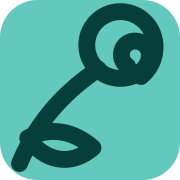
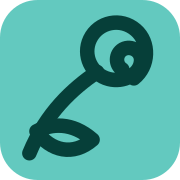
feat: 프로젝트별 파비콘·정적 빌드 반영 및 상품 상세 DB fallback 개선

diff --git a/daisomall/index.html b/daisomall/index.html
@@ -2,10 +2,10 @@
 <html lang="en">
   <head>
     <meta charset="UTF-8" />
-    <link rel="icon" type="image/svg+xml" href="/favicon.svg" />
-    <link rel="icon" type="image/x-icon" href="/favicon.ico" />
-    <link rel="icon" type="image/png" href="/favicon.png" />
-    <link rel="apple-touch-icon" href="/apple-touch-icon.png" />
+    <link rel="icon" type="image/svg+xml" href="/favicon.svg?v=20260723" />
+    <link rel="icon" type="image/x-icon" href="/favicon.ico?v=20260723" />
+    <link rel="icon" type="image/png" href="/favicon.png?v=20260723" />
+    <link rel="apple-touch-icon" href="/apple-touch-icon.png?v=20260723" />
     <meta name="viewport" content="width=device-width, initial-scale=1.0" />
     <title>daisomall</title>
   </head>

diff --git a/airseoul/index.html b/airseoul/index.html
@@ -2,10 +2,10 @@
 <html lang="en">
   <head>
     <meta charset="UTF-8" />
-    <link rel="icon" type="image/svg+xml" href="/favicon.svg" />
-    <link rel="icon" type="image/x-icon" href="/favicon.ico" />
-    <link rel="icon" type="image/png" href="/favicon.png" />
-    <link rel="apple-touch-icon" href="/apple-touch-icon.png" />
+    <link rel="icon" type="image/svg+xml" href="/favicon.svg?v=20260723" />
+    <link rel="icon" type="image/x-icon" href="/favicon.ico?v=20260723" />
+    <link rel="icon" type="image/png" href="/favicon.png?v=20260723" />
+    <link rel="apple-touch-icon" href="/apple-touch-icon.png?v=20260723" />
     <meta name="viewport" content="width=device-width, initial-scale=1.0" />
     <title>airseoul</title>
   </head>

diff --git a/fragfarm-mobile/pages/product-detail.php b/fragfarm-mobile/pages/product-detail.php
@@ -60,14 +60,18 @@ if (empty($sizes)) {
 $isSoldOut = !empty($product['soldOut']);
 $shopItem = shop_item_from_product($product, ['size' => $sizes[0] ?? 'S']);
 $shopItemAttr = shop_item_json($shopItem);
-$sampleReviews = FRAGFARM_DEMO_MODE
-    ? require __DIR__ . '/../includes/data/product-detail-reviews.php'
-    : [];
-
 $mysqli = null;
+
 if (!FRAGFARM_DEMO_MODE) {
+    define('FRAGFARM_DB_OPTIONAL', true);
     require_once __DIR__ . '/../includes/dbconn.php';
 }
+
+$useDemoFeedback = FRAGFARM_DEMO_MODE || !($mysqli instanceof mysqli);
+
+$sampleReviews = $useDemoFeedback
+    ? require __DIR__ . '/../includes/data/product-detail-reviews.php'
+    : [];
 
 require_once __DIR__ . '/../includes/services/product-detail-view.php';
 $feedbackView = build_product_detail_feedback(
@@ -529,6 +533,8 @@ $rating = number_format($reviewAverage, 1);
 <script type="application/json" id="shop-sample-data"><?= json_encode(shop_sample_items($products), JSON_UNESCAPED_UNICODE | JSON_UNESCAPED_SLASHES) ?></script>
 <script src="<?= BASE_URL ?>/js/shop-store.js"></script>
 <script src="<?= BASE_URL ?>/js/shop-product-actions.js"></script>
-<?php if (FRAGFARM_DEMO_MODE): ?><script src="<?= BASE_URL ?>/js/demo-product-feedback.js"></script><?php endif; ?>
+<?php if ($useDemoFeedback): ?>
+    <script src="<?= BASE_URL ?>/js/demo-product-feedback.js"></script>
+<?php endif; ?>
 </body>
 </html>

diff --git a/seoul-youth-center/includes/data/youth-programs.php b/seoul-youth-center/includes/data/youth-programs.php
@@ -93,7 +93,7 @@ $youthPrograms = [
         'url' => '#',
 
         'recruitment_start_date' => '2026-03-20',
-        'recruitment_end_date' => '2126-04-11',
+        'recruitment_end_date' => '2026-04-11',
         'is_ongoing' => false,
 
         'activity_start_date' => '2026-04-19',
@@ -120,7 +120,7 @@ $youthPrograms = [
         'url' => '#',
 
         'recruitment_start_date' => '2026-03-24',
-        'recruitment_end_date' => '2126-04-08',
+        'recruitment_end_date' => '2026-04-08',
         'is_ongoing' => false,
 
         'activity_start_date' => '2026-04-14',
@@ -147,7 +147,7 @@ $youthPrograms = [
         'url' => '#',
 
         'recruitment_start_date' => '2026-03-18',
-        'recruitment_end_date' => '2126-04-13',
+        'recruitment_end_date' => '2026-04-13',
         'is_ongoing' => false,
 
         'activity_start_date' => '2026-04-21',
@@ -174,7 +174,7 @@ $youthPrograms = [
         'url' => '#',
 
         'recruitment_start_date' => '2026-03-27',
-        'recruitment_end_date' => '2126-04-15',
+        'recruitment_end_date' => '2026-04-15',
         'is_ongoing' => false,
 
         'activity_start_date' => '2026-04-25',

diff --git a/fragfarm-mobile/includes/head.php b/fragfarm-mobile/includes/head.php
@@ -26,10 +26,10 @@ $documentTitle = $pageName === '' || strcasecmp($pageName, 'Fragfarm') === 0
     <link rel="stylesheet" href="<?= BASE_URL ?>/css/core/typography.css">
 
     <!-- favicon -->
-    <link rel="icon" type="image/svg+xml" href="<?= BASE_URL ?>/assets/icons/favicon.svg">
-    <link rel="icon" href="<?= BASE_URL ?>/assets/icons/favicon.ico">
-    <link rel="icon" href="<?= BASE_URL ?>/assets/icons/favicon.png">
-    <link rel="apple-touch-icon" href="<?= BASE_URL ?>/assets/icons/apple-touch-icon.png">
+    <link rel="icon" type="image/svg+xml" href="<?= BASE_URL ?>/assets/icons/favicon.svg?v=20260723">
+    <link rel="icon" type="image/x-icon" href="<?= BASE_URL ?>/assets/icons/favicon.ico?v=20260723">
+    <link rel="icon" type="image/png" href="<?= BASE_URL ?>/assets/icons/favicon.png?v=20260723">
+    <link rel="apple-touch-icon" href="<?= BASE_URL ?>/assets/icons/apple-touch-icon.png?v=20260723">
 
     <!-- layout -->
     <link rel="stylesheet" href="<?= BASE_URL ?>/css/layout/layout.css">

diff --git a/seoul-youth-center/includes/head.php b/seoul-youth-center/includes/head.php
@@ -9,10 +9,10 @@
     <link rel="stylesheet" href="<?= BASE_URL ?>/css/base/color.css">
 
     <!-- Favicons -->
-    <link rel="icon" type="image/svg+xml" href="<?= BASE_URL ?>/assets/icons/favicon.svg">
-    <link rel="icon" href="<?= BASE_URL ?>/assets/icons/favicon.ico">
-    <link rel="icon" type="image/png" href="<?= BASE_URL ?>/assets/icons/favicon.png">
-    <link rel="apple-touch-icon" href="<?= BASE_URL ?>/assets/icons/apple-touch-icon.png">
+    <link rel="icon" type="image/svg+xml" href="<?= BASE_URL ?>/assets/icons/favicon.svg?v=20260723">
+    <link rel="icon" type="image/x-icon" href="<?= BASE_URL ?>/assets/icons/favicon.ico?v=20260723">
+    <link rel="icon" type="image/png" href="<?= BASE_URL ?>/assets/icons/favicon.png?v=20260723">
+    <link rel="apple-touch-icon" href="<?= BASE_URL ?>/assets/icons/apple-touch-icon.png?v=20260723">
 
     <!-- Layout -->
     <link rel="stylesheet" href="<?= BASE_URL ?>/css/layout/layout.css">

diff --git a/seoul-youth-center/includes/config.php b/seoul-youth-center/includes/config.php
@@ -1,16 +1,22 @@
 <?php
 
+declare(strict_types=1);
+
 if (session_status() === PHP_SESSION_NONE) {
     session_start();
 }
 
 $serverName = $_SERVER['SERVER_NAME'] ?? 'localhost';
 
-$isLocal = in_array($serverName, [
-    'localhost',
-    '127.0.0.1',
-    '::1'
-]);
+$isLocal = in_array(
+    $serverName,
+    [
+        'localhost',
+        '127.0.0.1',
+        '::1',
+    ],
+    true
+);
 
 define('ENV', $isLocal ? 'local' : 'production');
 
@@ -19,3 +25,11 @@ if (ENV === 'local') {
 } else {
     define('BASE_URL', '/seoul-youth-center');
 }
+
+/**
+ * 프로그램 모집 상태와 달력에서 사용하는 공통 데모 기준일
+ *
+ * 실제 서버 날짜와 관계없이 프로젝트는
+ * 2026년 3월 23일을 오늘로 간주한다.
+ */
+define('PROGRAM_DEMO_TODAY', '2026-03-23');

diff --git a/fragfarm-mobile/db.local.php b/fragfarm-mobile/db.local.php
@@ -3,8 +3,9 @@
 // 로컬 PHP 서버에서 접속할 닷홈 MySQL 정보입니다.
 // 이 파일은 .gitignore에 등록되어 Git에 포함되지 않습니다.
 return [
-    'host' => 'DOTHOME_DB_HOST',
-    'user' => 'DOTHOME_DB_USER',
-    'password' => 'DOTHOME_DB_PASSWORD',
-    'database' => 'DOTHOME_DB_NAME',
+    'host' => 'localhost',
+    'user' => 'suyeonn',
+    'password' => 'Hh0468139@',
+    'database' => 'suyeonn',
 ];
+

diff --git a/fragfarm-mobile/dbconn.php b/fragfarm-mobile/dbconn.php
@@ -38,6 +38,12 @@ if (!$mysqli && $dbConfig['host'] === 'localhost') {
 
 if (!$mysqli) {
     error_log('Fragfarm DB connection failed: ' . mysqli_connect_error());
+
+    if (defined('FRAGFARM_DB_OPTIONAL') && FRAGFARM_DB_OPTIONAL === true) {
+        $mysqli = null;
+        return;
+    }
+
     header('Location: ' . BASE_URL . '/error.php');
     exit;
 }

diff --git a/seoul-youth-center/includes/functions/program.service.php b/seoul-youth-center/includes/functions/program.service.php
@@ -89,7 +89,7 @@ function createProgramDate(?string $date): ?DateTime
  */
 function getProgramToday(?DateTime $today = null): DateTime
 {
-    return $today ?? new DateTime('today');
+    return $today ?? new DateTime(PROGRAM_DEMO_TODAY);
 }
 
 /**
